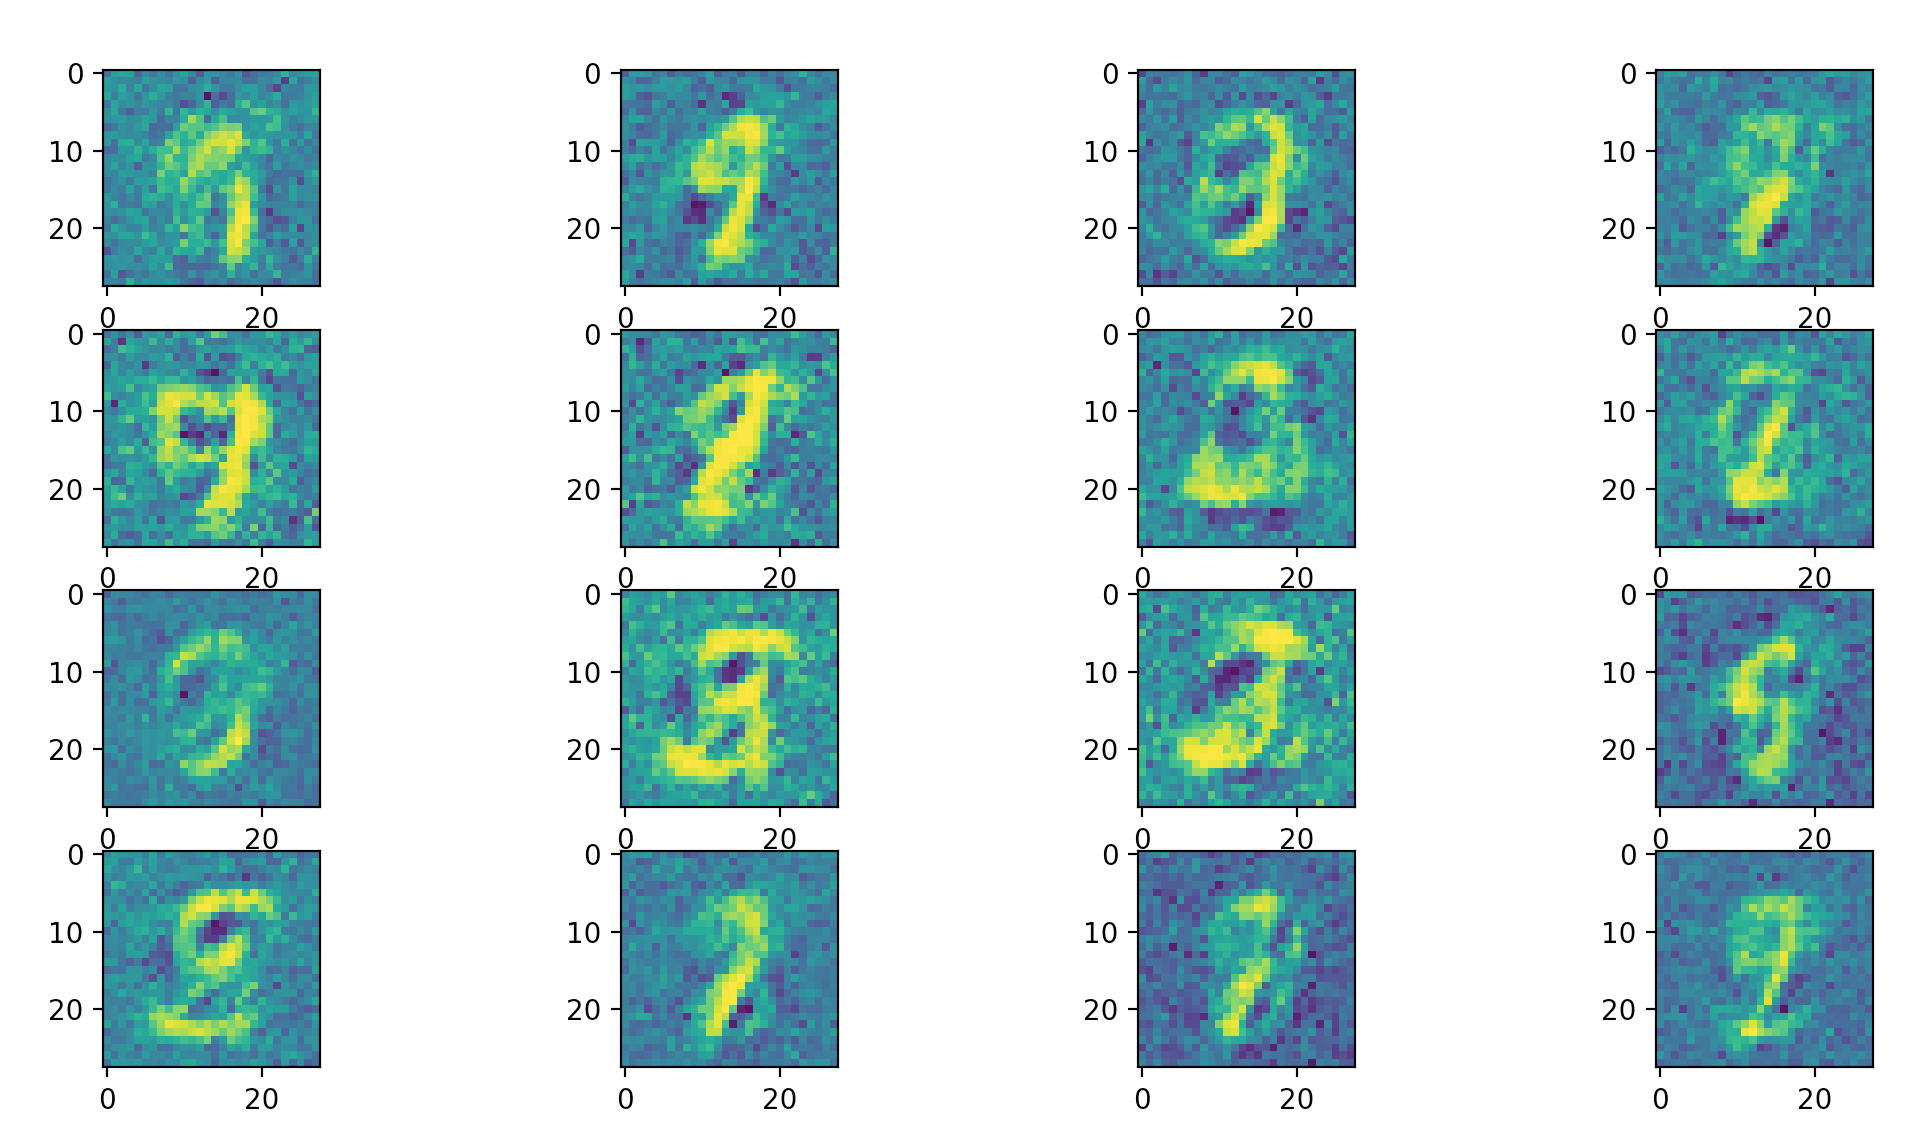
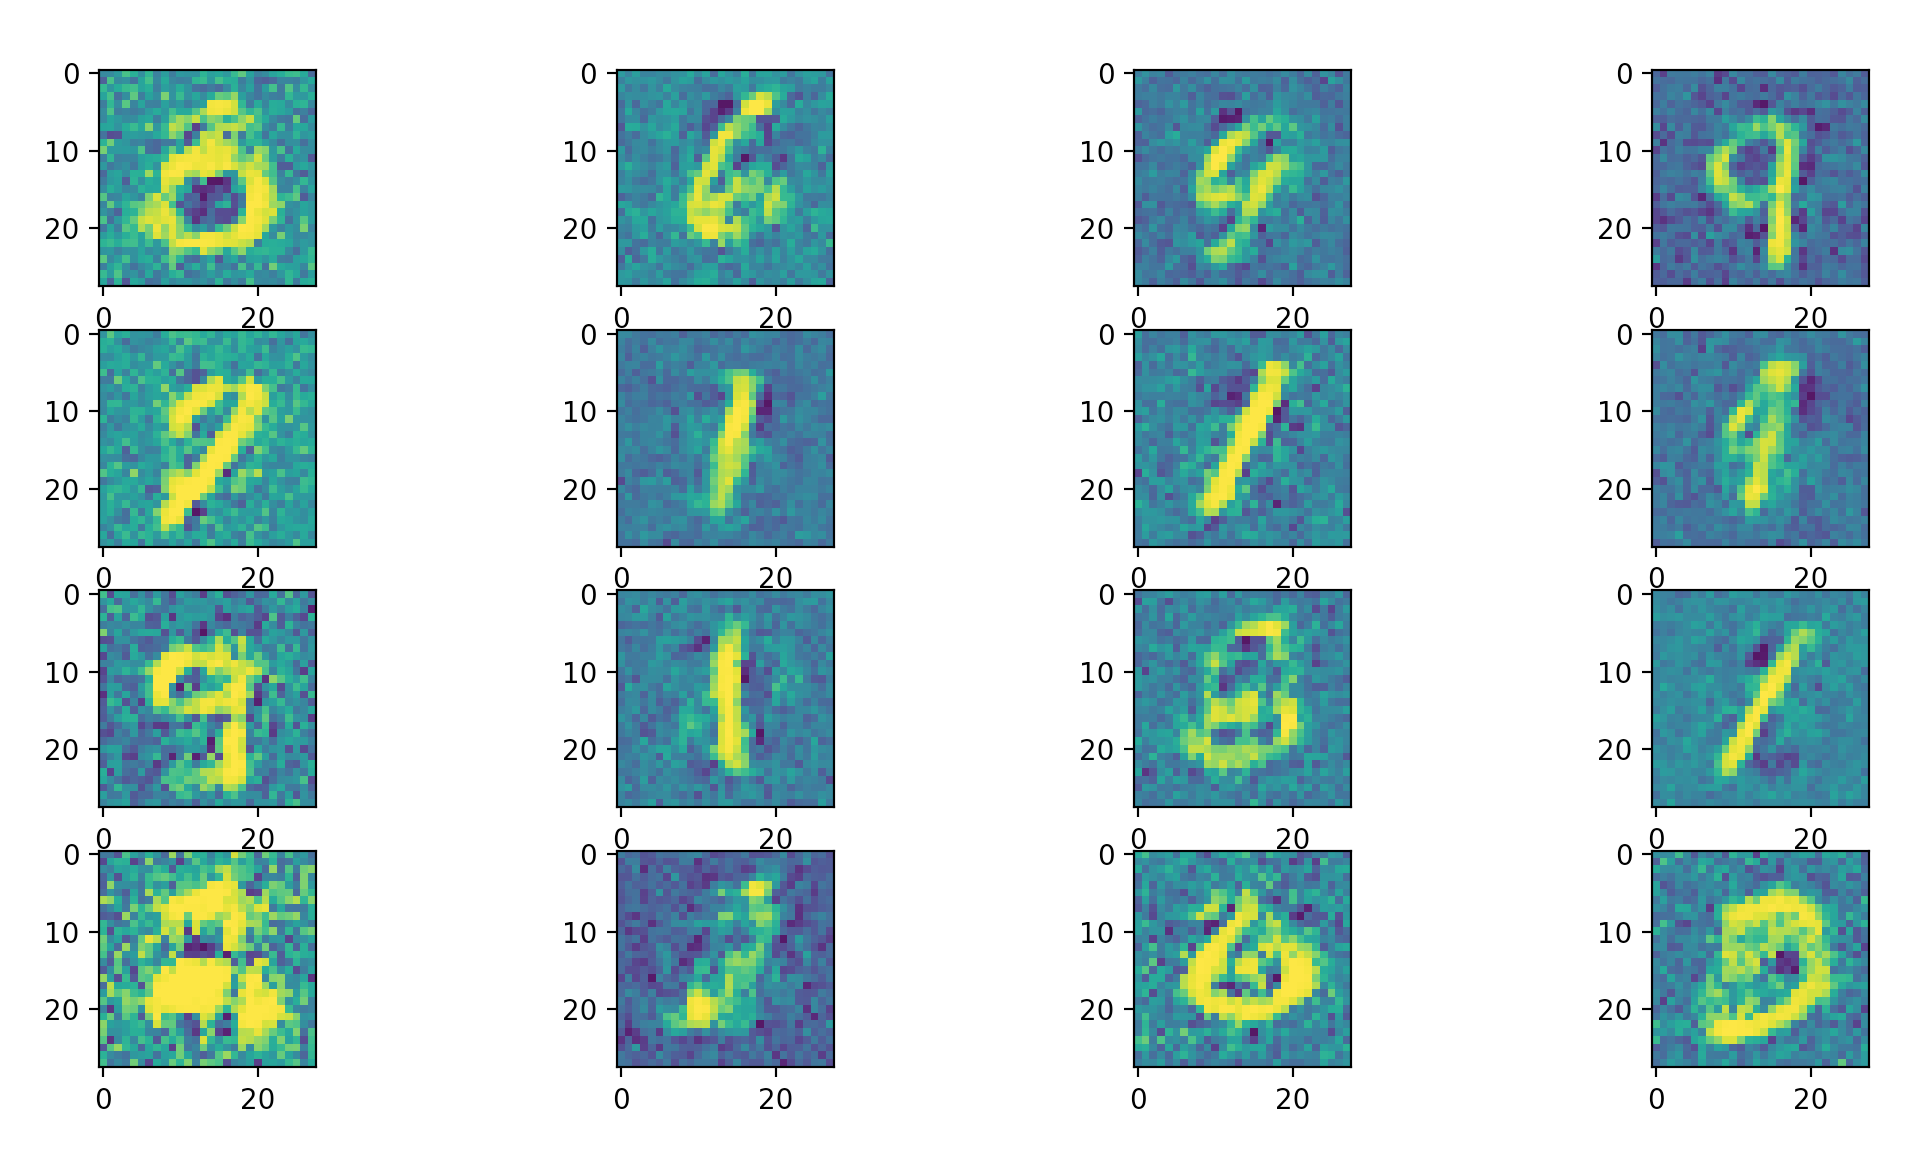
Remove useless prints, improve docs, add pics

diff --git a/main.py b/main.py
@@ -17,15 +17,17 @@ def train_discriminator(real_inputs, real_labels, discriminator, loss_fun, batch
     outputs = discriminator(real_inputs)
     discriminator_loss = loss_fun(outputs, real_labels)
     accuracy = calculate_accuracy(outputs, real_labels, batch_size)
-    print('discriminator training accuracy: ' + str(accuracy.item()))
     discriminator_loss.backward()
     discriminator_optimizer.step()
+    return accuracy.item()
 
 def calculate_accuracy(outputs, real_labels, batch_size):
     '''
         Calculate training accuracy
     '''
     predictions = torch.round(outputs)
+    # the real labels have to be rounded because of the smoothing
+    real_labels = torch.round(real_labels)
     correct = (predictions == real_labels).sum().float()
     accuracy = correct/batch_size
     return accuracy
@@ -50,11 +52,11 @@ def train_generator(batch_size, generator, discriminator, loss_fun):
     predictions = discriminator(fake_data)
     # we wnat the discriminator to think they're real
     generator_loss = loss_fun(predictions, target_fake_labels)
-    print('generator loss: ' + str(generator_loss.item()))
     generator_loss.backward()
     generator_optimizer.step()
+    return generator_loss.item()
 
-def train_gan(generator, discriminator, batch_size=256, epochs=2):
+def train_gan(generator, discriminator, batch_size=256, epochs=50):
     '''
         The training loop for the whole network
     '''
@@ -73,13 +75,23 @@ def train_gan(generator, discriminator, batch_size=256, epochs=2):
     )
     for e in range(epochs):
         # train for each data sample
-        print('epoch:' + str(e))
+        print('epoch {}: '.format(str(e)))
+        dis_acc = 0
+        gen_loss = 0
         for data in training_dataloader:
             real_inputs, real_labels = data
             # first train discriminator with real data
-            train_discriminator(real_inputs, real_labels, discriminator, loss_fun, batch_size)
+            discriminator_accuracy = train_discriminator(real_inputs, real_labels, discriminator, loss_fun, batch_size)
+            dis_acc += discriminator_accuracy
             # then train generator with one batch
-            train_generator(batch_size, generator, discriminator, loss_fun)
+            generator_loss = train_generator(batch_size, generator, discriminator, loss_fun)
+            gen_loss += generator_loss
+        if len(training_dataloader) == 0:
+            print('Where\'s your data you dweeb')
+            exit()
+        dis_acc_av = float(dis_acc) / len(training_dataloader)
+        gen_loss_av = float(gen_loss) / len(training_dataloader)
+        print('Average discriminator accuracy {} and generator loss {}'.format(dis_acc_av, gen_loss_av))
     return training_dataset
 
 def test_generator(gen, real_data_shape):

diff --git a/image_dataset.py b/image_dataset.py
@@ -1,5 +1,7 @@
 import torch
 from torch.utils.data import Dataset
+import random
+import numpy as np
 
 class ImageDataset(Dataset):
   def __init__(self, real_dataset, generator, batch_size):
@@ -10,6 +12,11 @@ class ImageDataset(Dataset):
 
   def __len__(self):
     return 2 * len(self.real_dataset)
+
+  def get_random_tenosor_in_range(self, start, finish):
+    num = random.uniform(start, finish)
+    num_array = np.array([num])
+    return torch.from_numpy(num_array).view(1, 1).float()
   
   def __getitem__(self, i):
     if i < len(self.real_dataset):
@@ -18,9 +25,9 @@ class ImageDataset(Dataset):
       if (self.real_data_shape == None):
         self.real_data_shape = real_data.size()
       real_data = real_data.view(real_data.size(0), -1)
-      return (real_data, torch.ones(1, 1))
+      return (real_data, self.get_random_tenosor_in_range(0.7, 1.2))
     else:
       random_seed = torch.randn(1, self.generator.input_size)
       # fake data label is 0
       fake_data = self.generator(random_seed)
-      return (fake_data.data, torch.zeros(1, 1))
+      return (fake_data.data, self.get_random_tenosor_in_range(0.0, 0.3))

diff --git a/gan.py b/gan.py
@@ -12,11 +12,12 @@ class Gen(nn.Module):
         self.l1 = nn.Linear(self.input_size, 128)
         self.l2 = nn.Linear(128,512)
         self.l3 = nn.Linear(512, 784)
+        self.leaky = nn.LeakyReLU(0.1)
 
     def forward(self, x):
         x = x.view((x.size(0), -1))
-        x = func.relu(self.l1(x))
-        x = func.relu(self.l2(x))
+        x = self.leaky(self.l1(x))
+        x = self.leaky(self.l2(x))
         return func.tanh(self.l3(x))
     
     def loss_fun(self):
@@ -32,10 +33,11 @@ class Discr(nn.Module):
         self.l2 = nn.Linear(512, 128)
         self.l3 = nn.Linear(128, 64)
         self.l4 = nn.Linear(64, 1)
+        self.leaky = nn.LeakyReLU(0.1)
 
     def forward(self, x):
         x = self.l1(x)
-        x = func.relu(self.l2(x))
+        x = self.leaky(self.l2(x))
         x = self.l3(x)
         return func.sigmoid(self.l4(x))
 

diff --git a/README.md b/README.md
@@ -1,13 +1,43 @@
 # genierator
 
-Me practicing generative adversarial networks
+Me practicing generative adversarial networks.
 
-## Generated examples:
+## Running the code
 
-### MNIST, 2 epochs
+0. Make sure you are using Python 3
+1. `pip -r install requirements.txt`
+2. `python main.py`
 
-![Fake mnist data](pics/generated_mnist_data.png)
+The code will train the model and print out the generator's loss as well as the discriminator's accuracy for each epoch.
+You want both of them to be small: that means that the images generated by the generator are realistic (discriminator classifies generator's images as real).
+After the training 8 sample pictures by the trained generator will be shown.
+
+## TODO
+
+- [ ] Use a more interesting dataset
+- [ ] Do some cool parameter tweaking like [this](https://github.com/soumith/ganhacks)
+- [ ] Learn a new network model, maybe [CGANS](https://arxiv.org/abs/1411.1784)
+- [ ] Use labels when training the discriminator
+
+## Gallery of generated examples:
+
+### MNIST, 10 epochs, relu
+
+![Fake MNIST baseline](pics/generated_mnist_data.png)
+
+### MNIST, 10 epochs, leaky relu
+
+![Fake MNIST using leaky rely](pics/mnist_leaky_relu.png)
+
+### MNIST, 10 epochs, leaky relu, smoothed labels
+
+![Fake MNIST using leaky relu and smoothed labels](pics/mnist_leaky_smoothed_labels.png)
+
+### MNIST, 50 epochs, leaky relu, smoothed labels
+
+![Fake MNIST using leaky relu and smoothed labels and 50 epochs](pics/mnist_leaky_smooth_50es.png)
 
 #### Sources:
 
-[Understanding Generative Adversarial Networks by Naoki Shibuya](https://towardsdatascience.com/understanding-generative-adversarial-networks-4dafc963f2ef) (I basically copied his network architecture and training loop)
+[Understanding Generative Adversarial Networks by Naoki Shibuya](https://towardsdatascience.com/understanding-generative-adversarial-networks-4dafc963f2ef) 
+  (I use his network architecture and training loop)
